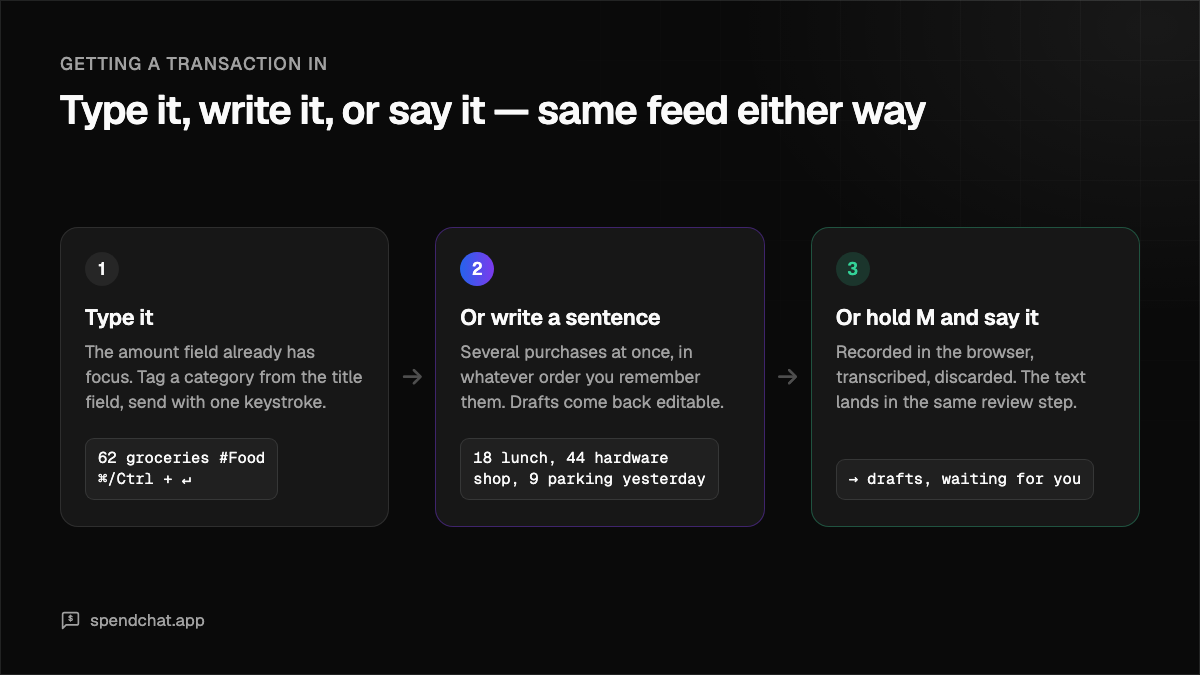
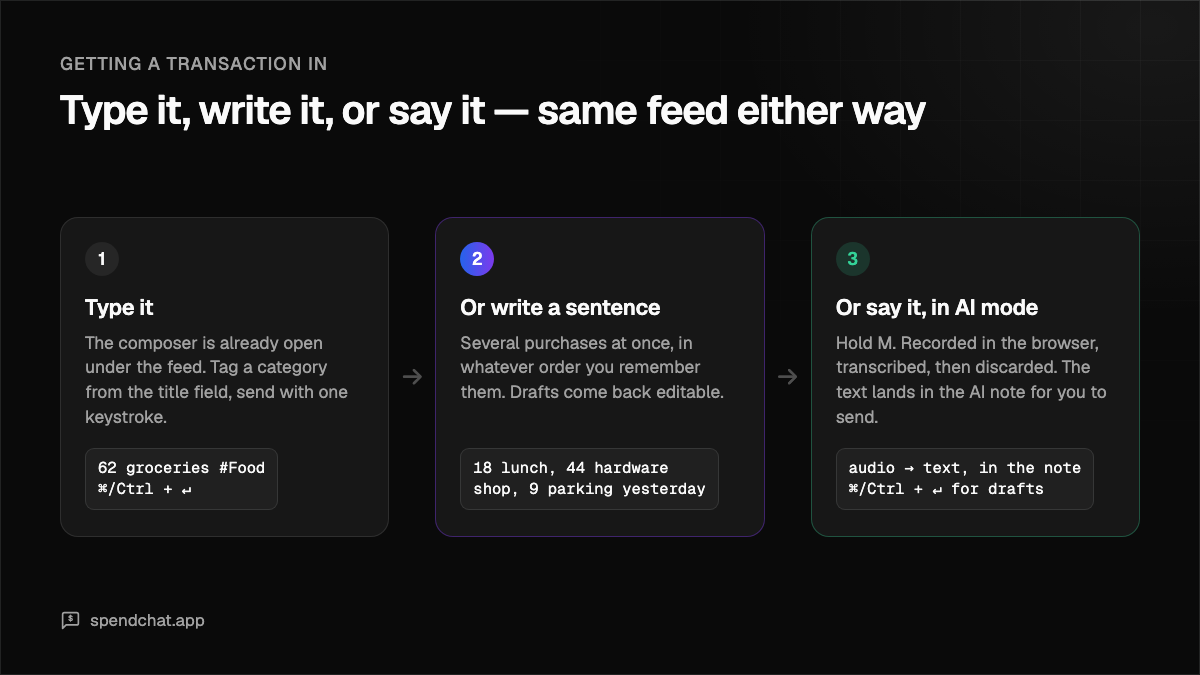
content(blog): the review's findings on the three refreshed posts
Checked against the source, not the copy. Eight statements were wrong.

Voice entry was "hold M" again with no mention that the composer has to be in
AI mode first — `voiceEnabled` is `mode === "ai" && ...` and a new account
defaults to Manual, so the instruction did nothing on a fresh account. That is
the same defect 57c37df fixed in four other posts, reintroduced here and baked
into a PNG. The same figure said the transcript "lands in the same review step"
and yields drafts: `onTranscribe` only calls `setText`, so it lands in the AI
note and waits to be sent. Its sibling figure in the same file already said so.

Export and print were "no cap" against `limit: 5000` in the export route and a
table that prints the `TRANSACTIONS_PAGE_SIZE` rows it has loaded under a header
counting all of them. Bulk add was "paste a year of rows" against `max(500)`.
Sign-up was "that's it for setup" for the route that mails a verification link
and refuses a session until it is clicked. The composer was "an amount, a
category and send" when the title is the field that blocks a send and the
category is nullable.

And the composer was said to open with the amount field focused, in fifteen
places. It doesn't: `TransactionComposer` has no mount effect and no
`autoFocus`, and every `.focus()` in it reacts to something the user did. The
claim reached four posts, two figures and two feature pages, so the sweep went
past this PR's three files rather than leave the site contradicting itself. What
[…]

diff --git a/tests/unit/blog-assets.test.ts b/tests/unit/blog-assets.test.ts
@@ -1,0 +1,128 @@
+import { describe, it, expect } from "vitest";
+import { existsSync, readFileSync, readdirSync } from "node:fs";
+import { join } from "node:path";
+
+/**
+ * The blog's covers and figures are static PNGs rendered ahead of time from
+ * `scripts/blog-image.html` and `scripts/blog-figure.html` (both deliberately
+ * so — generating them at runtime with `next/og` drags @vercel/og + resvg.wasm
+ * into the Worker). The cost of that choice is a second, hand-maintained copy
+ * of each post's frontmatter inside the generator, and a picture that keeps
+ * saying whatever it said when it was last rendered.
+ *
+ * It has already drifted once: the open-source post's cover printed 2 June
+ * against a post dated 2 September, because its row here was never updated.
+ * Nothing caught it, because a PNG has no opinion about the page it sits on.
+ *
+ * So the duplication is treated as an interface with a test behind it, the way
+ * `version.test.ts` guards the changelog and `env-example.test.ts` guards
+ * `.env.example`. When this fails it is telling you which of the two files you
+ * forgot — and, for the image checks, that a PNG needs re-rendering (the Chrome
+ * command is in each script's header comment).
+ */
+
+const ROOT = join(import.meta.dirname, "../..");
+const POSTS_DIR = join(ROOT, "src/content/blog");
+const PUBLIC_DIR = join(ROOT, "public");
+
+/**
+ * The cover card sets the excerpt in a fixed box, so it runs shorter than the
+ * post's own `excerpt` (which is the meta description, 125-160 chars). They are
+ * *not* the same string and shouldn't be — this is the ceiling that keeps a
+ * card line from overflowing its box.
+ */
+const COVER_EXCERPT_MAX = 120;
+
+type Meta = {
+  title: string;
+  date: string;
+  tag: string;
+  readingMinutes: number;
+  image?: string;
+};
+
+/** The `export const meta = {…}` block, read as text — `.mdx` can't be imported
+ *  under the unit project (no MDX plugin), and text is all this needs. */
+function readMeta(file: string): Meta {
+  const src = readFileSync(join(POSTS_DIR, file), "utf8");
+  const start = src.indexOf("export const meta = {");
+  expect(start, `${file}: no 'export const meta'`).toBeGreaterThan(-1);
+  const block = src.slice(start, src.indexOf("\n};", start));
+  const str = (field: string) => {
+    const m = new RegExp(`\\n  ${field}:\\s*\\n?\\s*"((?:[^"\\\\]|\\\\.)*)"`).exec(block);
+    expect(m, `${file}: no ${field} in meta`).not.toBeNull();
+    return m![1];
+  };
+  const num = (field: string) => {
+    const m = new RegExp(`\\n  ${field}: (\\d+)`).exec(block);
+    expect(m, `${file}: no ${field} in meta`).not.toBeNull();
+    return Number(m![1]);
+  };
+  const image = /\n  image: "([^"]+)"/.exec(block)?.[1];
+  return { title: str("title"), date: str("date"), tag: str("tag"), readingMinutes: num("readingMinutes"), image };
+}
+
+/** One `"<id>": { … }` table, keyed by id — the shape both generators use. */
+function readTable(script: string, marker: string): Map<string, string> {
+  const src = readFileSync(join(ROOT, "scripts", script), "utf8");
+  const body = src.slice(src.indexOf(marker));
+  const out = new Map<string, string>();
+  for (const m of body.matchAll(/^        "([a-z0-9-]+(?:--[a-z0-9-]+)?)": \{([\s\S]*?)\n        \},?$/gm)) {
+    out.set(m[1], m[2]);
+  }
+  expect(out.size, `${script}: parsed no entries`).toBeGreaterThan(0);
+  return out;
+}
+
+const files = readdirSync(POSTS_DIR).filter((f) => f.endsWith(".mdx"));
+const metas = new Map(files.map((f) => [f.replace(/\.mdx$/, ""), readMeta(f)]));
+
+describe("blog covers (scripts/blog-image.html)", () => {
+  const covers = readTable("blog-image.html", "const POSTS");
+
+  it("has a row for every post, and no rows for posts that don't exist", () => {
+    expect([...covers.keys()].sort()).toEqual([...metas.keys()].sort());
+  });
+
+  it.each([...metas.keys()])("%s: title, date, tag and reading time match the post", (slug) => {
+    const block = covers.get(slug)!;
+    const meta = metas.get(slug)!;
+    const field = (name: string) =>
+      new RegExp(`\\n          ${name}:\\s*\\n?\\s*"((?:[^"\\\\]|\\\\.)*)"`).exec(block)?.[1];
+    expect(field("title")).toBe(meta.title);
+    expect(field("date")).toBe(meta.date);
+    expect(field("tag")).toBe(meta.tag);
+    expect(Number(/\n          readingMinutes: (\d+)/.exec(block)?.[1])).toBe(meta.readingMinutes);
+  });
+
+  it.each([...covers.keys()])("%s: the card's excerpt fits its box", (slug) => {
+    const excerpt = /\n          excerpt:\s*\n?\s*"((?:[^"\\]|\\.)*)"/.exec(covers.get(slug)!)?.[1];
+    expect(excerpt, `${slug}: no excerpt on the cover`).toBeTruthy();
+    expect(excerpt!.length).toBeLessThanOrEqual(COVER_EXCERPT_MAX);
+  });
+
+  it.each([...metas.entries()].filter(([, m]) => m.image))("%s: its cover has been rendered", (slug, meta) => {
+    expect(existsSync(join(PUBLIC_DIR, meta.image!)), `${slug}: ${meta.image} is missing`).toBe(true);
+  });
+});
+
+describe("blog figures (scripts/blog-figure.html)", () => {
+  const figures = readTable("blog-figure.html", "const FIGURES");
+  const used = new Set<string>();
+  for (const file of files) {
+    const src = readFileSync(join(POSTS_DIR, file), "utf8");
+    for (const m of src.matchAll(/src="\/blog\/([a-z0-9-]+--[a-z0-9-]+)\.png"/g)) used.add(m[1]);
+  }
+
+  it("renders exactly the figures the posts embed", () => {
+    expect([...figures.keys()].sort()).toEqual([...used].sort());
+  });
+
+  it.each([...used])("%s: has been rendered", (id) => {
+    expect(existsSync(join(PUBLIC_DIR, "blog", `${id}.png`)), `public/blog/${id}.png is missing`).toBe(true);
+  });
+
+  it.each([...used])("%s: belongs to a post that exists", (id) => {
+    expect(metas.has(id.split("--")[0])).toBe(true);
+  });
+});

diff --git a/scripts/blog-figure.html b/scripts/blog-figure.html
@@ -22,6 +22,15 @@
   picture: the alt text is what a screen reader announces and what Google reads,
   and "diagram" tells neither of them anything.
 
+  Two things to know before writing figure copy. `tests/unit/blog-assets.test.ts`
+  checks that every entry here is embedded by a post and rendered to a PNG, so an
+  orphan or a missing file fails the suite — but nothing can check the *claims* in
+  a `body` or `mono` string against the app. They are baked into a binary, so a
+  wrong one costs a re-render and a new PNG in the diff. Verify a behaviour in
+  `src/` before you assert it here, and keep entries describing the same feature
+  saying the same thing (voice, for one, is gated on the composer being in AI mode
+  and stops at the note — it does not parse on its own).
+
   To render, run from the repo root (needs Chrome). REGENERATE ALL of them after
   editing this file, since a style change here affects every figure:
 
@@ -434,7 +443,7 @@
               n: "1",
               tone: "",
               label: "Type it",
-              body: "The amount field already has focus. Tag a category from the title field, send with one keystroke.",
+              body: "The composer is already open under the feed. Tag a category from the title field, send with one keystroke.",
               mono: "62 groceries #Food\n⌘/Ctrl + ↵",
             },
             {
@@ -447,9 +456,9 @@
             {
               n: "3",
               tone: "done",
-              label: "Or hold M and say it",
-              body: "Recorded in the browser, transcribed, discarded. The text lands in the same review step.",
-              mono: "→ drafts, waiting for you",
+              label: "Or say it, in AI mode",
+              body: "Hold M. Recorded in the browser, transcribed, then discarded. The text lands in the AI note for you to send.",
+              mono: "audio → text, in the note\n⌘/Ctrl + ↵ for drafts",
             },
           ],
         },
@@ -504,7 +513,7 @@
             sub: "A few seconds",
             tone: "hi",
             items: [
-              { m: "yes", t: "The composer is already open, amount already focused" },
+              { m: "yes", t: "The composer is already open under the feed — nothing to launch" },
               { m: "yes", t: "Type # and a few letters to tag a category inline" },
               { m: "yes", t: "One keystroke sends; no page change, nothing to dismiss" },
               { m: "yes", t: "The bubble appears and the balance moves — that is the receipt" },

diff --git a/scripts/blog-image.html b/scripts/blog-image.html
@@ -5,9 +5,17 @@
   link is shared (WhatsApp, Telegram, X, Slack, ...).
 
   One file renders every post: the slug is read from the query string
-  (?post=<slug>) and looked up in the POSTS table below. Keep that table in sync
-  with `export const meta` in src/content/blog/<slug>.mdx — the title, excerpt
-  and tag here should be the same strings the page renders.
+  (?post=<slug>) and looked up in the POSTS table below. That table is a second
+  copy of each post's frontmatter, so it drifts: the open-source post once
+  printed a June date on a September article because its row was never updated.
+
+  `tests/unit/blog-assets.test.ts` now holds the two files together. Title, date,
+  tag and readingMinutes must match `export const meta` in
+  src/content/blog/<slug>.mdx exactly — change one, change both, and re-render.
+  The excerpt is the exception and is *not* the post's `excerpt`: this one is set
+  in a fixed box on the card, so it's a shorter line written for the card
+  (the test caps it; the post's own excerpt is the 125-160 char meta description
+  and will overflow).
 
   Static PNGs on purpose, for the same reason as scripts/og-image.html:
   generating them at runtime with next/og makes OpenNext bundle @vercel/og +
@@ -338,7 +346,7 @@
         },
         "track-your-money-like-a-conversation": {
           tag: "Philosophy",
-          title: "Track Your Money Like a Conversation",
+          title: "Why Expense Tracking Habits Fail in Week Two",
           excerpt:
             "Expense tracking habits fail at the twenty seconds it takes to log a coffee, not at the reporting.",
           date: "2026-06-15",

diff --git a/src/app/(marketing)/features/keyboard-shortcuts/page.tsx b/src/app/(marketing)/features/keyboard-shortcuts/page.tsx
@@ -55,7 +55,7 @@ const faqs = [
   },
   {
     q: "How do I log an expense without the mouse?",
-    a: `The amount field already has focus when the tracker opens: type the amount, press Enter to move to the title, type ${comboFor("tracker.category")} (${comboText("tracker.category").toLowerCase()}) and a few letters to pick a category from the list that filters as you go, then ${comboText("tracker.submit")} to send. From any other page, ${comboText("action.add")} opens the same entry as a dialog.`,
+    a: `The composer is already open under the feed: click the amount field once, type the amount, press Enter to move to the title, type ${comboFor("tracker.category")} (${comboText("tracker.category").toLowerCase()}) and a few letters to pick a category from the list that filters as you go, then ${comboText("tracker.submit")} to send. From any other page, ${comboText("action.add")} opens the same entry as a dialog.`,
   },
   {
     q: "Why does pressing a letter sometimes do nothing?",
@@ -102,7 +102,7 @@ export default function KeyboardShortcutsPage() {
           },
           {
             title: "Start an entry",
-            body: `${comboText("action.add")} opens the add-transaction dialog from anywhere; on the tracker the composer already has focus, so you can just start typing the amount.`,
+            body: `${comboText("action.add")} opens the add-transaction dialog from anywhere; on the tracker the composer is already open under the feed, so there is nothing to open first.`,
           },
           {
             title: "Send it",

diff --git a/src/app/(marketing)/features/chat-expense-tracker/page.tsx b/src/app/(marketing)/features/chat-expense-tracker/page.tsx
@@ -25,7 +25,7 @@ const faqs = [
   },
   {
     q: "How long does it take to add a transaction?",
-    a: "A few seconds. The amount field is focused when the composer opens, the category is one click or a # tag away, and Cmd/Ctrl + Enter sends. There is no save dialog, no page change, and no confirmation step to dismiss.",
+    a: "A few seconds. The composer sits open under the feed with nothing to launch first, the category is one click or a # tag away, and Cmd/Ctrl + Enter sends. There is no save dialog, no page change, and no confirmation step to dismiss.",
   },
   {
     q: "Do I have to connect my bank account?",
@@ -71,7 +71,7 @@ export default function ChatExpenseTrackerPage() {
         steps={[
           {
             title: "Type the amount",
-            body: "The amount field has focus the moment the composer opens, so you can start typing without clicking anything first.",
+            body: "The composer is already open under the feed — no plus button and no modal — so the amount field is one click away rather than three taps deep.",
           },
           {
             title: "Pick a category",

diff --git a/src/app/(marketing)/blog/[slug]/page.tsx b/src/app/(marketing)/blog/[slug]/page.tsx
@@ -129,6 +129,17 @@ export default async function BlogPostPage({ params }: Params) {
           {post.tag}
         </span>
         <span>{formatPostDate(post.date)}</span>
+        {/* Shown because it is claimed: `updated` is what `dateModified` and
+            `og:modifiedTime` above report, and a markup date with nothing
+            matching it on the page is a freshness signal Google is entitled to
+            discount — the same visible/markup parity the FAQ and breadcrumb
+            comments below turn on. */}
+        {post.updated && post.updated !== post.date && (
+          <>
+            <span aria-hidden>·</span>
+            <span>Updated {formatPostDate(post.updated)}</span>
+          </>
+        )}
         <span aria-hidden>·</span>
         <span>{post.readingMinutes} min read</span>
       </div>

diff --git a/CHANGELOG.md b/CHANGELOG.md
@@ -35,7 +35,48 @@ The three posts that predate the deep-dives, brought up to the same standard.
   general argument for open-sourcing a money app, which the new deep-dive covers
   properly and at length — two pages competing to answer one question helps
   neither. It now says what shipped, what it changes for you, and points at the
-  longer piece.
+  longer piece. It also says "open core", which `README.md` and `CONTRIBUTING.md`
+  both lead with and the announcement had left out.
+- **"Track your money like a conversation" is now "Why Expense Tracking Habits
+  Fail in Week Two".** The old title was `siteConfig.tagline` word for word, so
+  the homepage and a 1,500-word FAQ-rich article were bidding for one query with
+  the same title tag. The URL is unchanged.
+- **A post shows its "Updated" date when it has one.** `updated` already drove
+  `dateModified` and `og:modifiedTime`, but nothing rendered it — markup
+  claiming a freshness the page doesn't show is a signal Google is entitled to
+  discount. The release note gained the `updated` date its rewrite had earned.
+
+### Added
+
+- **A test behind the blog's generated images**
+  (`tests/unit/blog-assets.test.ts`). `scripts/blog-image.html` keeps a
+  hand-copied second set of every post's title, date, tag and reading time, and
+  it has already shipped a cover printing the wrong date. The test holds the two
+  files together and checks that each figure is embedded by a post and rendered
+  to a PNG.
+
+### Fixed
+
+- **Eight claims about the product that the source doesn't support.** Voice
+  entry was "hold `M`" with no mention that the composer has to be in AI mode
+  first — the exact omission the last release fixed in four other posts — and
+  was described as returning drafts by itself, when it drops the transcript into
+  the AI note and waits for you to send it. Export and print were "no cap"
+  against a 5,000-row file and a table that prints the fifty rows it has loaded.
+  Bulk add was "paste a year of rows" against a 500-row limit. Signing up was
+  "that's it for setup" on the route that mails a verification link first. The
+  composer was "an amount, a category and send" when the title is the required
+  field and the category is optional. And it was said to open with the amount
+  field focused — in fifteen places across four posts, two figures and the chat
+  and keyboard-shortcuts feature pages. It doesn't: `TransactionComposer` has no
+  mount effect and no `autoFocus`, and every `.focus()` in it is a reaction to
+  something you did. What was true, and load-bearing, is that the composer is
+  always open under the feed with nothing to launch first — so that is what the
+  copy says now.
+- **The two rewritten posts have inbound links.** They were the only posts on
+  the site nothing linked to — fifteen links out between them, none back — which
+  put the two pages this release most wants to rank at the bottom of the site's
+  own link graph.
 
 ## [0.17.0] — 2026-09-06
 
